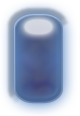
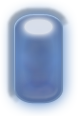
fix for title printing bug that wasn't handling capital letters

Changed region(s): [[0.25, 0.2845, 0.725, 0.8534]]

diff --git a/js/sequencer.js b/js/sequencer.js
@@ -37,7 +37,7 @@ function calcDelay(tempo) {
 
 function printTitle(songname) {
   var letter = "";
-  var songArray = songname.split("");
+  var songArray = songname.toLowerCase().split("");
   $("#title").html("");
   $.each(songArray, function(index, value) {
     $("#title").append("<img src='images/letter_" + value + ".png'>");
